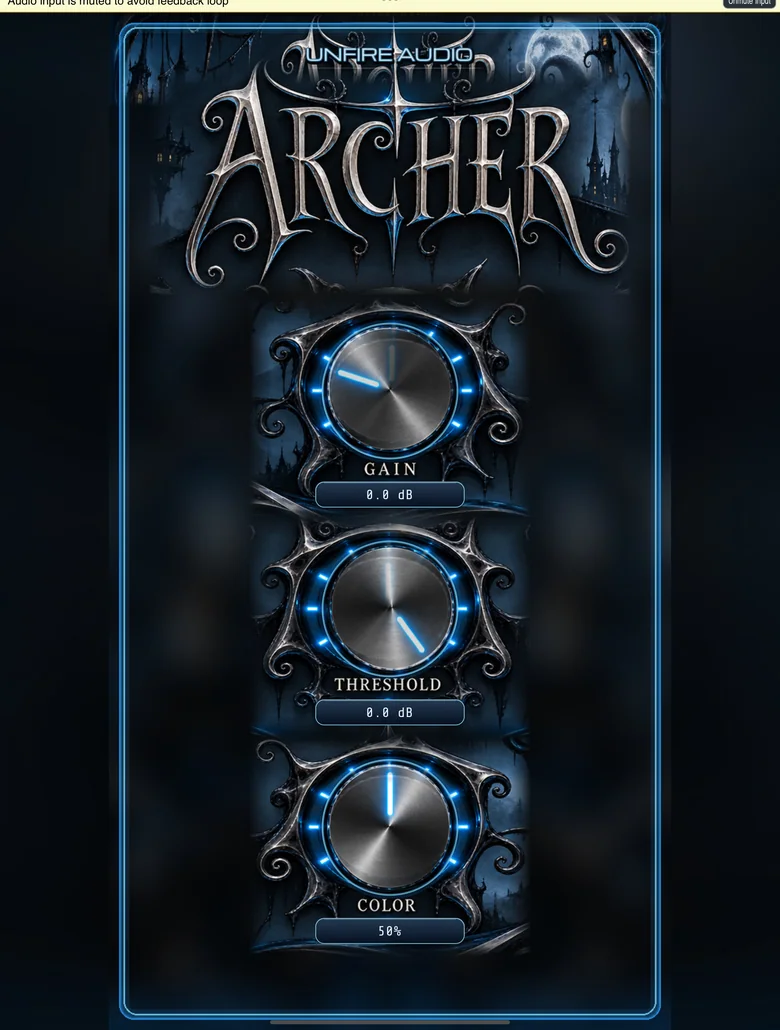
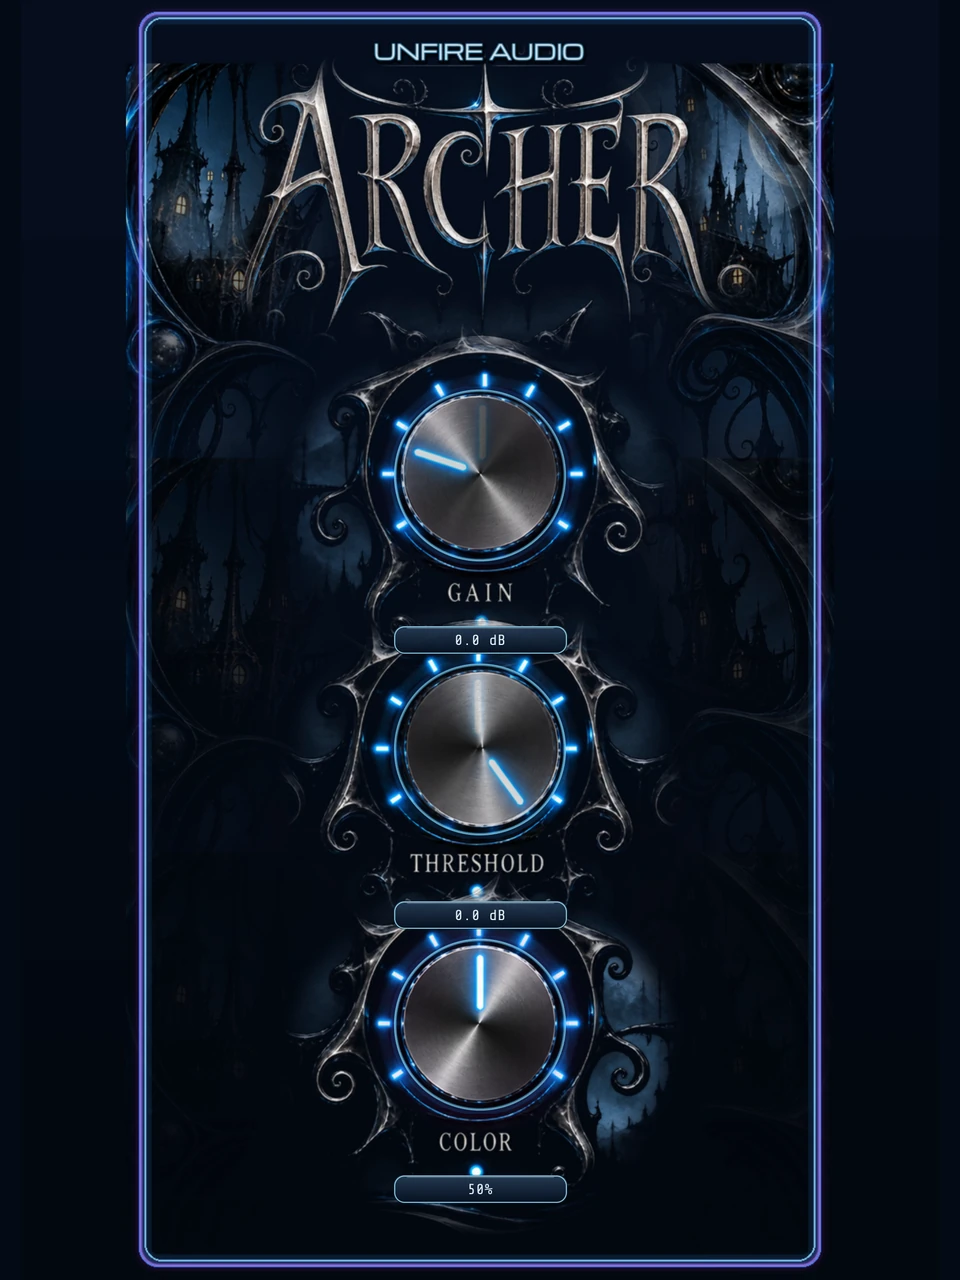
ARCHER Mobile: real sharp iPhone/iPad captures (no blur, no boxes)
Claude-Session: https://claude.ai/code/session_01R73ybLr2sEzfRjMnSnY8C4

diff --git a/audio/tienda/index.html b/audio/tienda/index.html
@@ -57,7 +57,7 @@ section{padding:52px 0 8px}.section-lead{max-width:680px;margin-bottom:22px}.gri
   <p class="am-legal">Unreleased 1.0.3 development screenshots. The version currently for sale in the App Store may look different.</p></div>
   <div class="am-devices" aria-label="ARCHER Mobile iPhone and iPad development preview gallery">
     <span class="am-frame am-frame--iphone"><img src="/assets/products/archer-mobile-iphone-ui-20261029.webp" width="640" height="1317" alt="Authentic ARCHER Mobile iPhone preview with three vertically stacked controls" loading="lazy" decoding="async"></span>
-    <span class="am-frame am-frame--ipad"><img src="/assets/products/archer-mobile-ipad-ui-20261029.webp" width="720" height="1283" alt="ARCHER Mobile interface crop inside an iPad-proportioned portrait display frame" loading="lazy" decoding="async"></span>
+    <span class="am-frame am-frame--ipad"><img src="/assets/products/archer-mobile-ipad-ui-20261029.webp" width="960" height="1280" alt="ARCHER Mobile interface crop inside an iPad-proportioned portrait display frame" loading="lazy" decoding="async"></span>
   </div>
 </div></section>
 <section><span class="eyebrow">Also available</span><h2>Free application</h2><div class="grid"><article class="card"><span class="pill soft">Free · iPhone</span><h3><span translate="no">Power Energy Prices</span></h3><p>Check electricity prices and estimate energy costs using data sources available in each market.</p><div class="actions"><a class="cta secondary" href="https://apps.apple.com/es/app/power-energy-prices/id6815880143" target="_blank" rel="noopener noreferrer">View free application ↗</a></div></article></div></section>

diff --git a/index.html b/index.html
@@ -4292,7 +4292,7 @@ main .uf-hero-title {
 <a class="uf-gallery-media" href="/apps/archer-mobile/" aria-label="Explore the ARCHER Mobile iPhone and iPad interface previews">
   <span class="uf-archer-devices">
     <span class="uf-archer-device uf-archer-device--iphone"><img src="assets/products/archer-mobile-iphone-ui-20261029.webp" width="640" height="1317" alt="ARCHER Mobile iPhone preview with three vertically stacked blue-lit audio controls" loading="lazy" decoding="async"></span>
-    <span class="uf-archer-device uf-archer-device--ipad"><img src="assets/products/archer-mobile-ipad-ui-20261029.webp" width="720" height="1283" alt="ARCHER Mobile development UI shown inside a portrait iPad-proportioned display frame" loading="lazy" decoding="async"></span>
+    <span class="uf-archer-device uf-archer-device--ipad"><img src="assets/products/archer-mobile-ipad-ui-20261029.webp" width="960" height="1280" alt="ARCHER Mobile development UI shown inside a portrait iPad-proportioned display frame" loading="lazy" decoding="async"></span>
   </span>
 </a>
 <div class="uf-gallery-copy"><p class="uf-gallery-type">Audio / iPhone &amp; iPad</p><h4>ARCHER Mobile</h4><p>A dedicated touch interface, designed for iPhone and iPad. Two devices, one distinct mobile experience.</p><span class="uf-gallery-availability">Product preview · upcoming design, not the current App Store version</span></div>

diff --git a/audio/index.html b/audio/index.html
@@ -761,7 +761,7 @@ footer a{color:var(--soft)}
       </div>
       <div class="am-device-stage" aria-label="Two separate ARCHER Mobile development previews for iPhone and iPad">
         <span class="am-device am-device--iphone"><img src="/assets/products/archer-mobile-iphone-ui-20261029.webp" width="640" height="1317" alt="ARCHER Mobile iPhone development interface with vertical blue audio controls" loading="lazy" decoding="async"></span>
-        <span class="am-device am-device--ipad"><img src="/assets/products/archer-mobile-ipad-ui-20261029.webp" width="720" height="1283" alt="ARCHER Mobile development control-panel crop presented within an iPad-proportioned portrait frame" loading="lazy" decoding="async"></span>
+        <span class="am-device am-device--ipad"><img src="/assets/products/archer-mobile-ipad-ui-20261029.webp" width="960" height="1280" alt="ARCHER Mobile development control-panel crop presented within an iPad-proportioned portrait frame" loading="lazy" decoding="async"></span>
       </div>
     </section>
   </div><div class="rail r" aria-hidden="true"></div></div>
